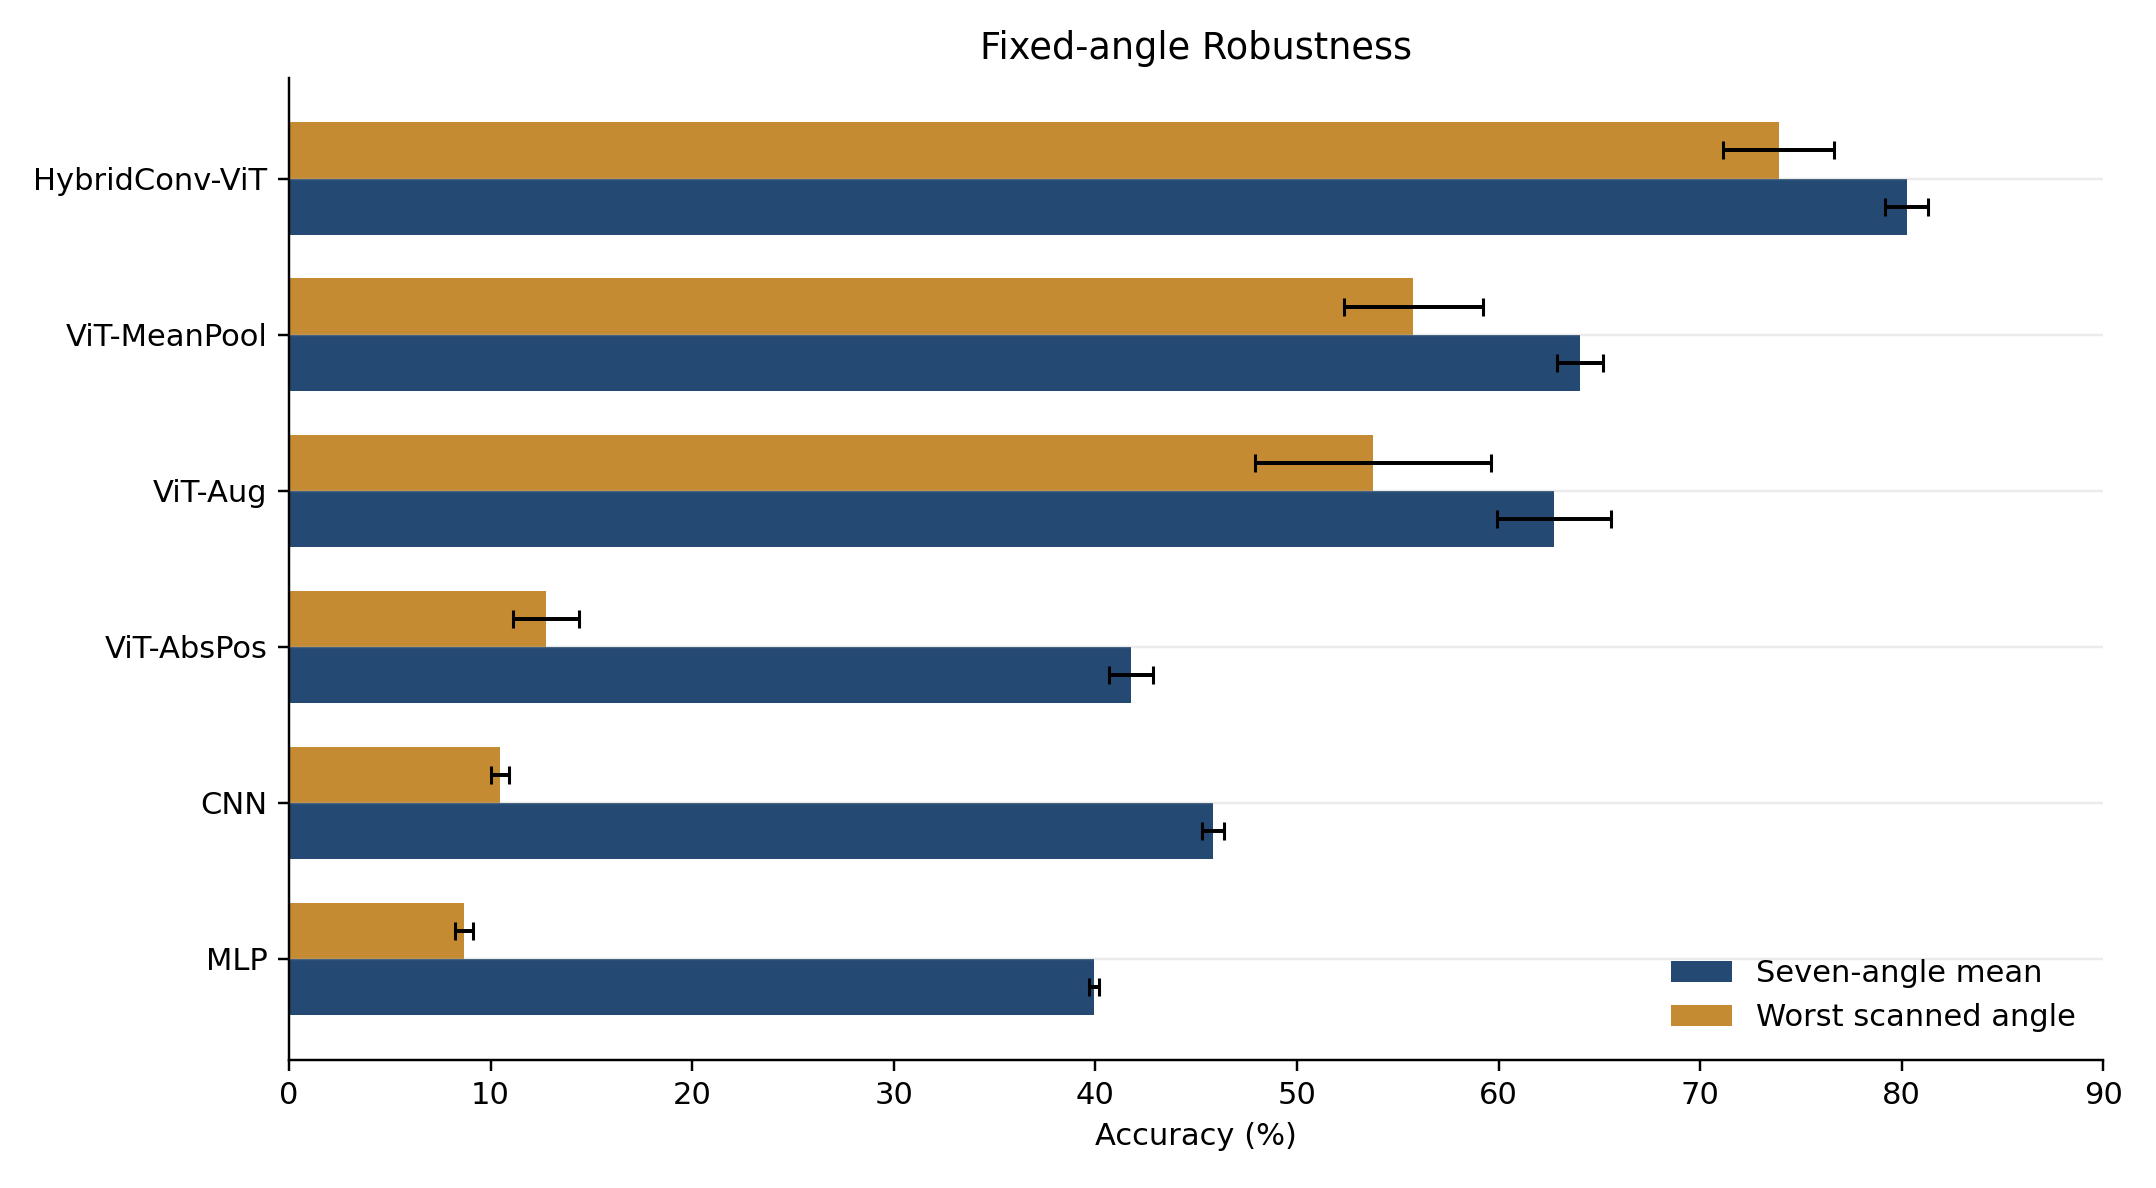
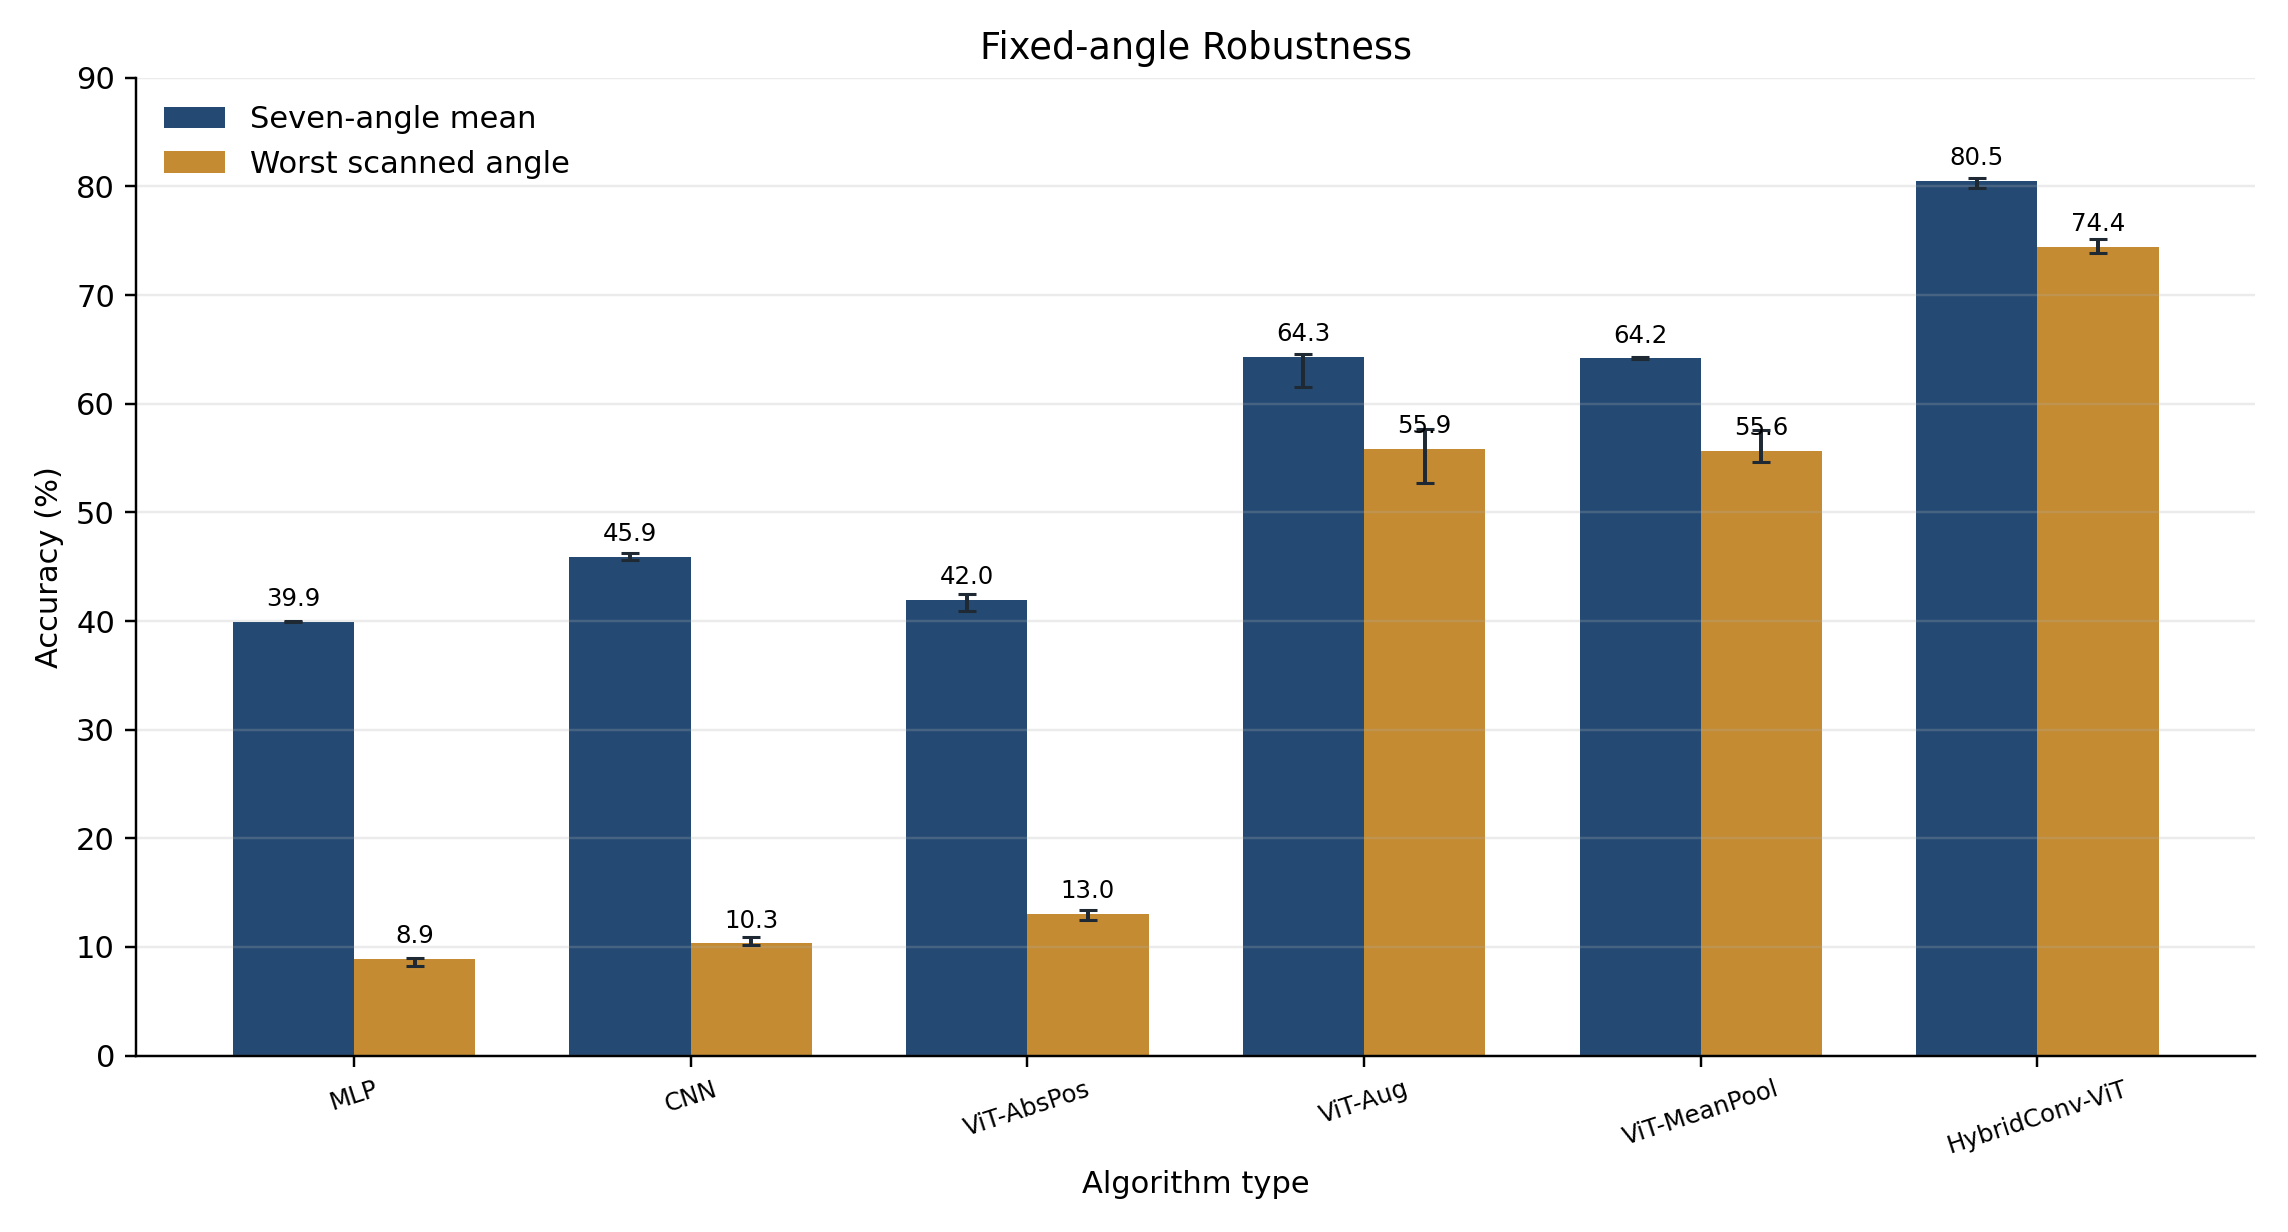
multiseed 报告修改2

diff --git a/src/analyze_multiseed_results.py b/src/analyze_multiseed_results.py
@@ -36,14 +36,8 @@ METRICS = [
     ("rotation_accuracy", "Rotation"),
     ("shift_rotation_accuracy", "Shift+Rotation"),
 ]
-COLORS = {
-    "MLP": "#244A73",
-    "CNN": "#C58B32",
-    "ViT-AbsPos": "#4E8B66",
-    "ViT-Aug": "#2F7F83",
-    "ViT-MeanPool": "#5F6B76",
-    "HybridConv-ViT": "#8A5A83",
-}
+BLUE = "#244A73"
+ORANGE = "#C58B32"
 
 
 def parse_args():
@@ -133,6 +127,9 @@ def summarize(table: pd.DataFrame) -> pd.DataFrame:
             values = subset[metric].astype(float) * 100
             row[f"{metric}_mean"] = values.mean()
             row[f"{metric}_std"] = values.std(ddof=1)
+            row[f"{metric}_q1"] = values.quantile(0.25)
+            row[f"{metric}_median"] = values.median()
+            row[f"{metric}_q3"] = values.quantile(0.75)
         rows.append(row)
     return pd.DataFrame(rows)
 
@@ -201,8 +198,8 @@ def write_multiseed_ablation_table(summary: pd.DataFrame, table: pd.DataFrame, r
     for display_name, _ in MODELS:
         row = summary[summary["model"] == display_name].iloc[0]
         augmentation, pooling, conv_stem = config_rows[display_name]
-        grid = f"{format_percent(row['grid_accuracy_mean'])} / {format_std(row['grid_accuracy_std'])}"
-        drop = f"{format_percent(row['robust_drop_mean'])} / {format_std(row['robust_drop_std'])}"
+        grid = format_percent(row["grid_accuracy_median"])
+        drop = format_percent(row["robust_drop_median"])
         body.append(
             "      "
             + " & ".join([display_name, augmentation, pooling, conv_stem, grid, drop])
@@ -210,7 +207,7 @@ def write_multiseed_ablation_table(summary: pd.DataFrame, table: pd.DataFrame, r
         )
     content = f"""\\begin{{table}}[H]
   \\centering
-  \\caption{{模型消融实验结果（Mean / Std；Std 单位为百分点）}}
+  \\caption{{模型消融实验结果（五个随机种子的中位数）}}
   \\label{{tab:ablation-results}}
   \\resizebox{{\\textwidth}}{{!}}{{%
     \\begin{{tabular}}{{lccccc}}
@@ -257,19 +254,38 @@ def _style_axis(axis):
     axis.spines["right"].set_visible(False)
 
 
+def _iqr_error(summary: pd.DataFrame, metric: str) -> np.ndarray:
+    medians = summary[f"{metric}_median"].to_numpy(dtype=float)
+    q1 = summary[f"{metric}_q1"].to_numpy(dtype=float)
+    q3 = summary[f"{metric}_q3"].to_numpy(dtype=float)
+    return np.vstack([medians - q1, q3 - medians])
+
+
+def _label_x_axis(axis, labels: list[str], fontsize: int = 8) -> None:
+    axis.set_xticks(np.arange(len(labels)), labels)
+    axis.tick_params(axis="x", labelrotation=18, labelsize=fontsize)
+
+
 def plot_grid_errorbars(summary: pd.DataFrame, output: Path) -> None:
     labels = summary["model"].tolist()
-    means = summary["grid_accuracy_mean"].to_numpy()
-    stds = summary["grid_accuracy_std"].to_numpy()
-    y = np.arange(len(labels))
-    figure, axis = plt.subplots(figsize=(9.6, 5.2))
-    axis.barh(y, means, xerr=stds, color=[COLORS[label] for label in labels], alpha=0.9,
-              error_kw={"elinewidth": 1.4, "capsize": 4, "capthick": 1.2})
-    for index, (mean, std) in enumerate(zip(means, stds)):
-        axis.text(mean + std + 1.0, index, f"{mean:.1f}", va="center", fontsize=9)
-    axis.set_yticks(y, labels)
-    axis.set_xlim(0, 90)
-    axis.set_xlabel("Grid Accuracy (%)")
+    medians = summary["grid_accuracy_median"].to_numpy(dtype=float)
+    x = np.arange(len(labels))
+    figure, axis = plt.subplots(figsize=(9.8, 5.4))
+    bars = axis.bar(
+        x,
+        medians,
+        yerr=_iqr_error(summary, "grid_accuracy"),
+        color=BLUE,
+        alpha=0.92,
+        error_kw={"elinewidth": 1.5, "capsize": 4, "capthick": 1.2, "ecolor": "#1F2933"},
+    )
+    for bar, value in zip(bars, medians):
+        axis.text(bar.get_x() + bar.get_width() / 2, value + 1.1, f"{value:.1f}",
+                  ha="center", va="bottom", fontsize=9)
+    _label_x_axis(axis, labels, fontsize=8)
+    axis.set_ylim(0, 90)
+    axis.set_xlabel("Algorithm type")
+    axis.set_ylabel("Grid Accuracy (%)")
     axis.set_title("Grid Accuracy Across Seeds")
     _style_axis(axis)
     figure.tight_layout()
@@ -279,40 +295,48 @@ def plot_grid_errorbars(summary: pd.DataFrame, output: Path) -> None:
 
 def plot_metric_errorbars(summary: pd.DataFrame, output: Path) -> None:
     labels = [display_name for display_name, _ in MODELS]
-    metric_labels = [label for _, label in METRICS]
-    matrix = []
-    for display_name in labels:
-        row = summary[summary["model"] == display_name].iloc[0]
-        matrix.append([row[f"{metric}_mean"] for metric, _ in METRICS])
-    matrix = np.asarray(matrix, dtype=float)
-
-    figure, axis = plt.subplots(figsize=(10.6, 5.4))
-    image = axis.imshow(matrix, vmin=0, vmax=100, cmap="YlGnBu", aspect="auto")
-    axis.set_xticks(np.arange(len(metric_labels)), metric_labels)
-    axis.set_yticks(np.arange(len(labels)), labels)
-    axis.set_title("Accuracy by Evaluation Protocol")
-    axis.tick_params(axis="x", labelrotation=0, labelsize=10)
-    axis.tick_params(axis="y", labelsize=10)
-    axis.set_xticks(np.arange(-0.5, len(metric_labels), 1), minor=True)
-    axis.set_yticks(np.arange(-0.5, len(labels), 1), minor=True)
-    axis.grid(which="minor", color="white", linewidth=1.5)
-    axis.tick_params(which="minor", bottom=False, left=False)
-    for row_index in range(matrix.shape[0]):
-        for column_index in range(matrix.shape[1]):
-            value = matrix[row_index, column_index]
-            color = "white" if value >= 58 else "#1F2933"
+    panels = [
+        ("center_accuracy", "Center Acc", "Accuracy (%)", BLUE),
+        ("large_shift_accuracy", "Large Shift Acc", "Accuracy (%)", BLUE),
+        ("grid_accuracy", "Grid Acc", "Accuracy (%)", BLUE),
+        ("rotation_accuracy", "Rotation Acc", "Accuracy (%)", BLUE),
+        ("shift_rotation_accuracy", "Shift+Rotation Acc", "Accuracy (%)", BLUE),
+        ("robust_drop", "Robust Drop", "Percentage points", ORANGE),
+    ]
+    x = np.arange(len(labels))
+    figure, axes = plt.subplots(2, 3, figsize=(13.2, 7.6), sharex=True)
+    for axis, (metric, title, ylabel, color) in zip(axes.flat, panels):
+        medians = summary[f"{metric}_median"].to_numpy(dtype=float)
+        bars = axis.bar(
+            x,
+            medians,
+            yerr=_iqr_error(summary, metric),
+            color=color,
+            alpha=0.92,
+            error_kw={"elinewidth": 1.3, "capsize": 3, "capthick": 1.1, "ecolor": "#1F2933"},
+        )
+        for bar, value in zip(bars, medians):
+            offset = 1.0 if value >= 0 else -2.6
             axis.text(
-                column_index,
-                row_index,
+                bar.get_x() + bar.get_width() / 2,
+                value + offset,
                 f"{value:.1f}",
                 ha="center",
-                va="center",
-                color=color,
-                fontsize=9,
-                fontweight="bold" if value >= 80 else "normal",
+                va="bottom" if value >= 0 else "top",
+                fontsize=7.5,
             )
-    colorbar = figure.colorbar(image, ax=axis, shrink=0.84, pad=0.02)
-    colorbar.set_label("Accuracy (%)")
+        axis.axhline(0, color="#1F2933", linewidth=0.8)
+        axis.set_title(title, fontsize=11)
+        axis.set_ylabel(ylabel)
+        if metric == "robust_drop":
+            q1 = summary[f"{metric}_q1"].min()
+            q3 = summary[f"{metric}_q3"].max()
+            axis.set_ylim(min(-6, q1 - 4), q3 + 6)
+        else:
+            axis.set_ylim(0, 96)
+        _label_x_axis(axis, labels, fontsize=7)
+        _style_axis(axis)
+    figure.suptitle("Median Results Across Seeds with Interquartile Ranges", fontsize=14, fontweight="bold")
     figure.tight_layout()
     figure.savefig(output, dpi=220, bbox_inches="tight")
     plt.close(figure)
@@ -361,32 +385,38 @@ def plot_pairwise_deltas(table: pd.DataFrame, output: Path) -> None:
 
 def plot_angle_summary(summary: pd.DataFrame, output: Path) -> None:
     labels = summary["model"].tolist()
-    y = np.arange(len(labels))
-    height = 0.36
-    figure, axis = plt.subplots(figsize=(9.8, 5.4))
-    axis.barh(
-        y - height / 2,
-        summary["fixed_angle_mean_mean"],
-        xerr=summary["fixed_angle_mean_std"],
-        height=height,
-        color="#244A73",
+    x = np.arange(len(labels))
+    width = 0.36
+    figure, axis = plt.subplots(figsize=(10.4, 5.6))
+    bars_mean = axis.bar(
+        x - width / 2,
+        summary["fixed_angle_mean_median"],
+        yerr=_iqr_error(summary, "fixed_angle_mean"),
+        width=width,
+        color=BLUE,
         label="Seven-angle mean",
-        error_kw={"elinewidth": 1.3, "capsize": 3},
+        error_kw={"elinewidth": 1.3, "capsize": 3, "ecolor": "#1F2933"},
     )
-    axis.barh(
-        y + height / 2,
-        summary["fixed_angle_worst_mean"],
-        xerr=summary["fixed_angle_worst_std"],
-        height=height,
-        color="#C58B32",
+    bars_worst = axis.bar(
+        x + width / 2,
+        summary["fixed_angle_worst_median"],
+        yerr=_iqr_error(summary, "fixed_angle_worst"),
+        width=width,
+        color=ORANGE,
         label="Worst scanned angle",
-        error_kw={"elinewidth": 1.3, "capsize": 3},
+        error_kw={"elinewidth": 1.3, "capsize": 3, "ecolor": "#1F2933"},
     )
-    axis.set_yticks(y, labels)
-    axis.set_xlim(0, 90)
-    axis.set_xlabel("Accuracy (%)")
+    for bars in (bars_mean, bars_worst):
+        for bar in bars:
+            value = bar.get_height()
+            axis.text(bar.get_x() + bar.get_width() / 2, value + 1.0, f"{value:.1f}",
+                      ha="center", va="bottom", fontsize=8)
+    _label_x_axis(axis, labels, fontsize=8)
+    axis.set_ylim(0, 90)
+    axis.set_xlabel("Algorithm type")
+    axis.set_ylabel("Accuracy (%)")
     axis.set_title("Fixed-angle Robustness")
-    axis.legend(frameon=False, loc="lower right")
+    axis.legend(frameon=False, loc="upper left")
     _style_axis(axis)
     figure.tight_layout()
     figure.savefig(output, dpi=220)

diff --git a/report/tables/ablation_results.tex b/report/tables/ablation_results.tex
@@ -1,18 +1,18 @@
 \begin{table}[H]
   \centering
-  \caption{模型消融实验结果（Mean / Std；Std 单位为百分点）}
+  \caption{模型消融实验结果（五个随机种子的中位数）}
   \label{tab:ablation-results}
   \resizebox{\textwidth}{!}{%
     \begin{tabular}{lccccc}
       \toprule
       Model & Augmentation & Pooling & Conv Stem & Grid Acc & Robust Drop \\
       \midrule
-      MLP & center & cls & No & 13.58\% / 0.18 & 73.41\% / 0.18 \\
-      CNN & center & cls & No & 13.09\% / 0.48 & 77.13\% / 0.46 \\
-      ViT-AbsPos & center & cls & No & 20.68\% / 1.23 & 66.35\% / 1.33 \\
-      ViT-Aug & shift\_rotation & cls & No & 63.77\% / 2.20 & -1.80\% / 1.25 \\
-      ViT-MeanPool & shift\_rotation & mean & No & 65.17\% / 0.83 & -2.78\% / 0.99 \\
-      HybridConv-ViT & shift\_rotation & mean & Yes & 81.05\% / 0.73 & 0.09\% / 0.62 \\
+      MLP & center & cls & No & 13.59\% & 73.32\% \\
+      CNN & center & cls & No & 13.16\% & 76.97\% \\
+      ViT-AbsPos & center & cls & No & 20.56\% & 65.91\% \\
+      ViT-Aug & shift\_rotation & cls & No & 64.70\% & -1.59\% \\
+      ViT-MeanPool & shift\_rotation & mean & No & 65.37\% & -2.89\% \\
+      HybridConv-ViT & shift\_rotation & mean & Yes & 80.96\% & -0.01\% \\
       \bottomrule
     \end{tabular}%
   }